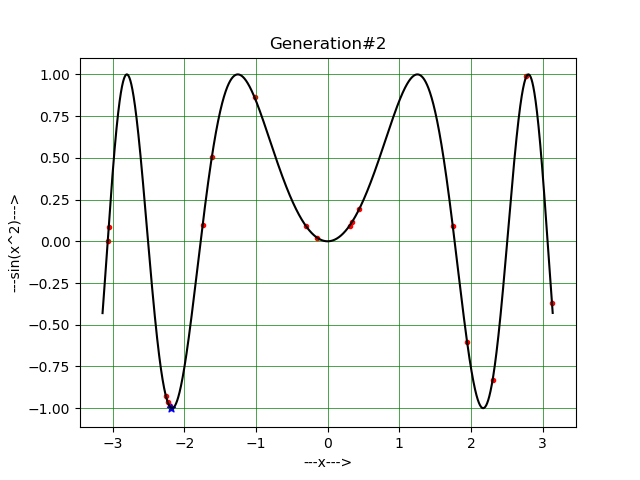
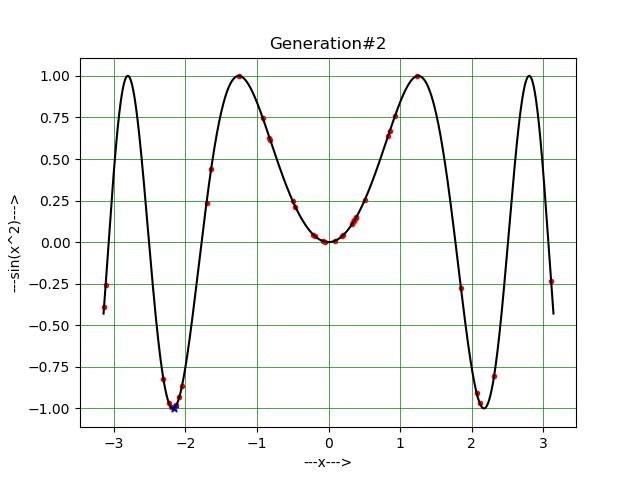
Improved accuracy

diff --git a/Basic_GA.py b/Basic_GA.py
@@ -23,7 +23,7 @@ import os
 
 pc = 0.4                                                                        # Probability of Crossover
 pm = 0.2                                                                        # Probability of mutation
-population_size = 20                                                            # Number of Individuals
+population_size = 40                                                            # Number of Individuals
 num_chromosomes = 1                                                             # Number of Chromosomes
 Generation = -1                                                                 # Generation Count
 avg = 0.3                                                                       # Averaging Factor
@@ -67,8 +67,8 @@ def fitness_calculation():
     for i in range(population_size):
         for j in range(num_chromosomes):
             fitness_values[i] = math.sin((population[i][j])**2)
-            if fitness_values[i] < -0.999:
-                fitness_values[i] = -1
+            # if fitness_values[i] < -0.999:
+              #  fitness_values[i] = -1
 
 
 def display():
@@ -164,7 +164,7 @@ def termination_conditions():
     global Generation
     Generation += 1
 
-    if Generation == 1000:
+    if Generation == 10000:
         print("\n\n\nMaximum Generation Limit Reached\n")
         return False
 
@@ -206,5 +206,6 @@ while termination_conditions():
     survivor_selection()
 
 end = time.time()
-print("Time Taken:", int(end-start), "seconds")
+print("\nMinimum found at x =",population[fittest][0])
+print("\n\nTime Taken:", int(end-start), "seconds")
 plt.show()
